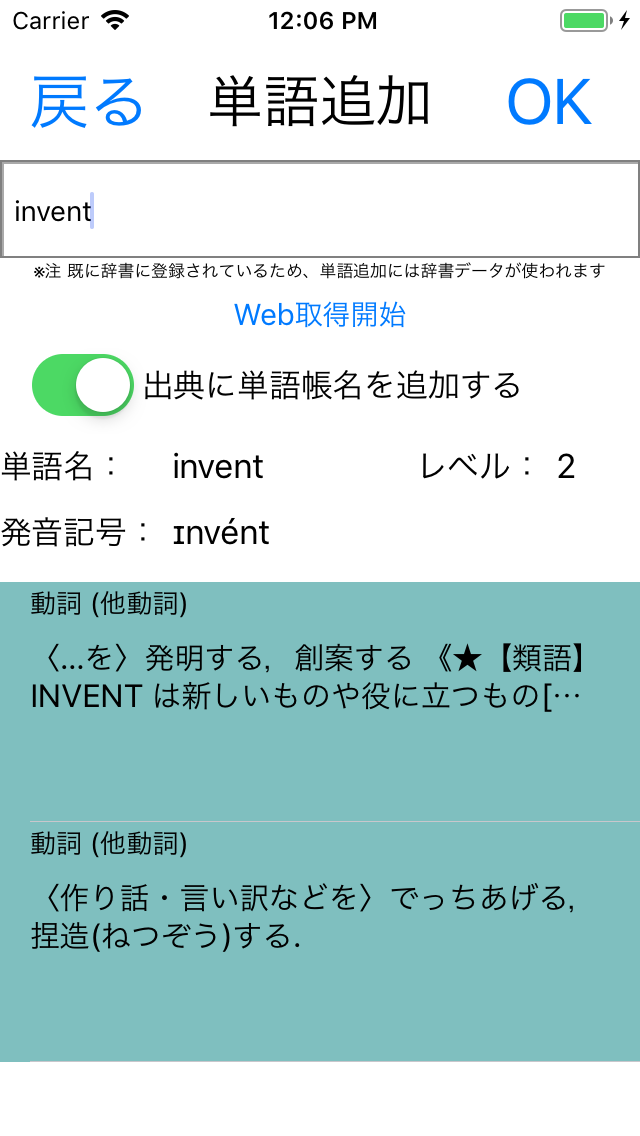
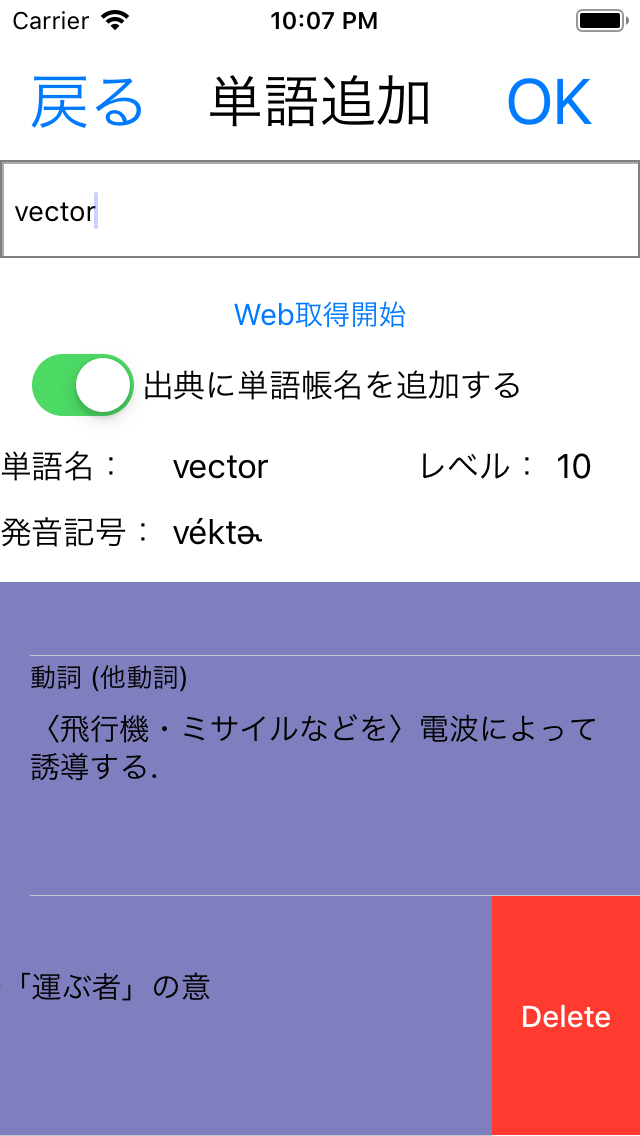
単語追加(Web)画面で取得結果の訳文をスワイプ削除する機能を実装

diff --git a/EnglishWords/EnglishWords/AddWordFromWebViewController.swift b/EnglishWords/EnglishWords/AddWordFromWebViewController.swift
@@ -86,6 +86,23 @@ class AddWordFromWebViewController: UIViewController, UITextFieldDelegate, UITab
         return cell
     }
     
+    //指定したテーブル、セル毎にスワイプを有効、無効にする
+    func tableView(_ tableView: UITableView, canEditRowAt indexPath: IndexPath) -> Bool {
+        return true
+    }
+    
+    //選択したセルでスワイプすると削除される
+    func tableView(_ tableView: UITableView, commit editingStyle: UITableViewCellEditingStyle, forRowAt indexPath: IndexPath) {
+        if editingStyle == .delete {
+            //選択したセルの訳文を削除
+            poslist.remove(at: indexPath.row)
+            meanlist.remove(at: indexPath.row)
+            exEnlist.remove(at: indexPath.row)
+            exJalist.remove(at: indexPath.row)
+            tableView.deleteRows(at: [indexPath], with: .fade)
+        }
+    }
+    
     // TableのCell の高さを１２０にする
     func tableView(_ table: UITableView,
                    heightForRowAt indexPath: IndexPath) -> CGFloat {
